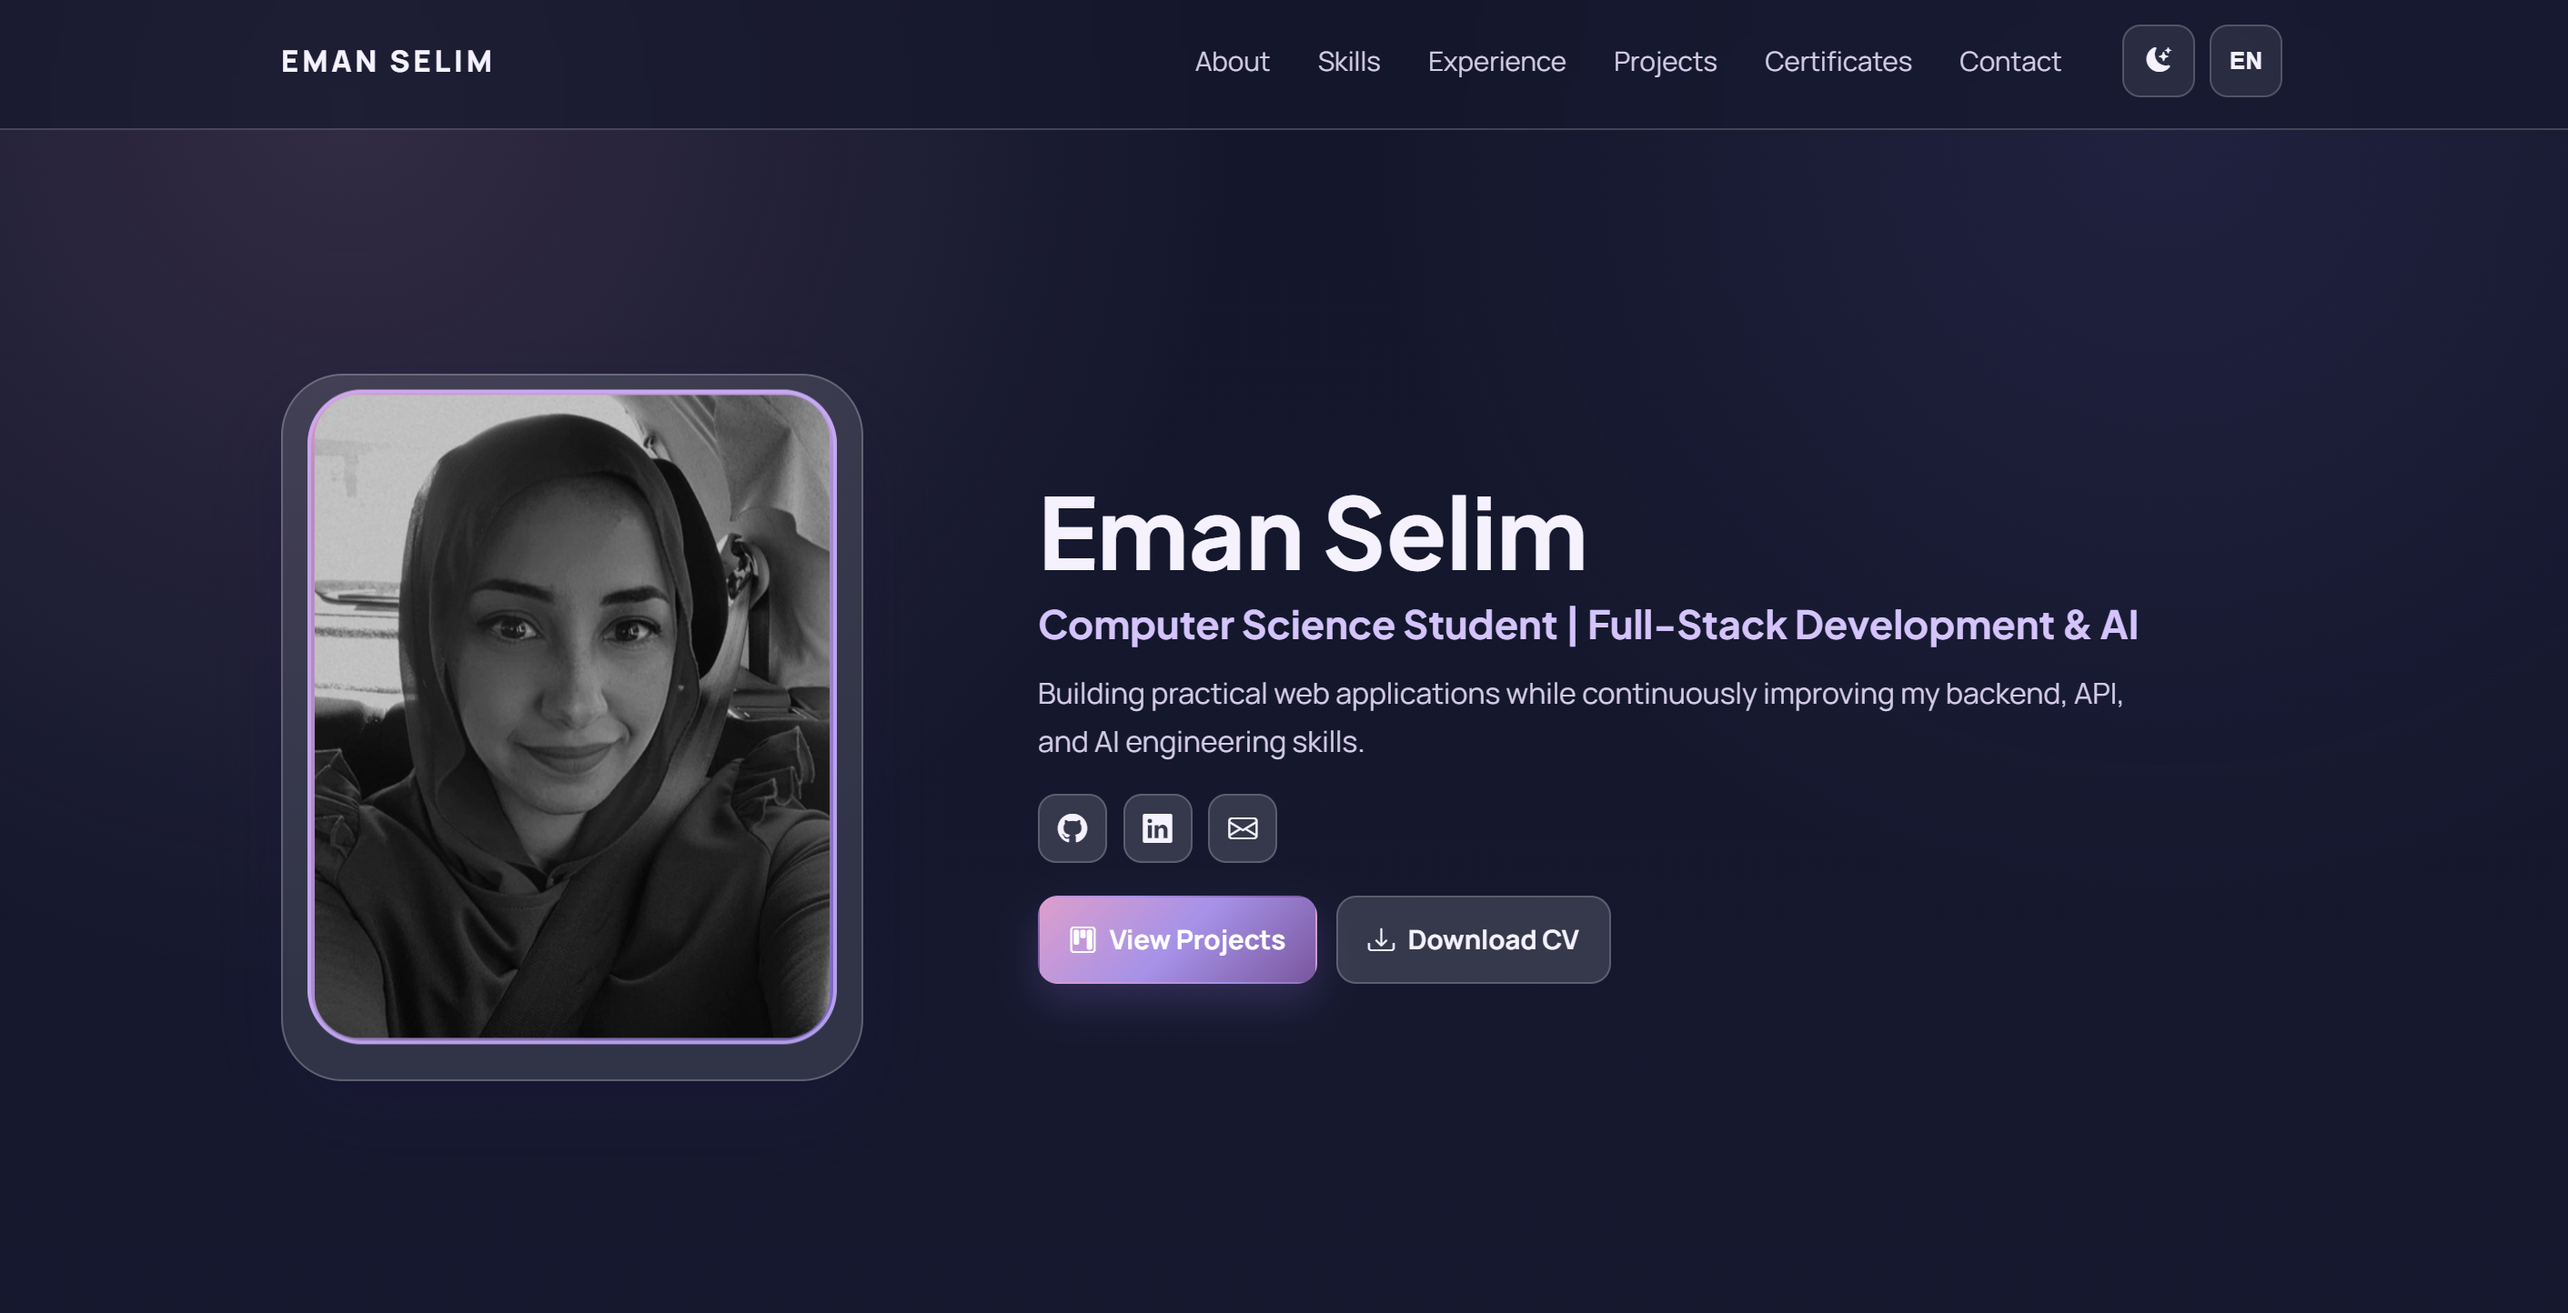
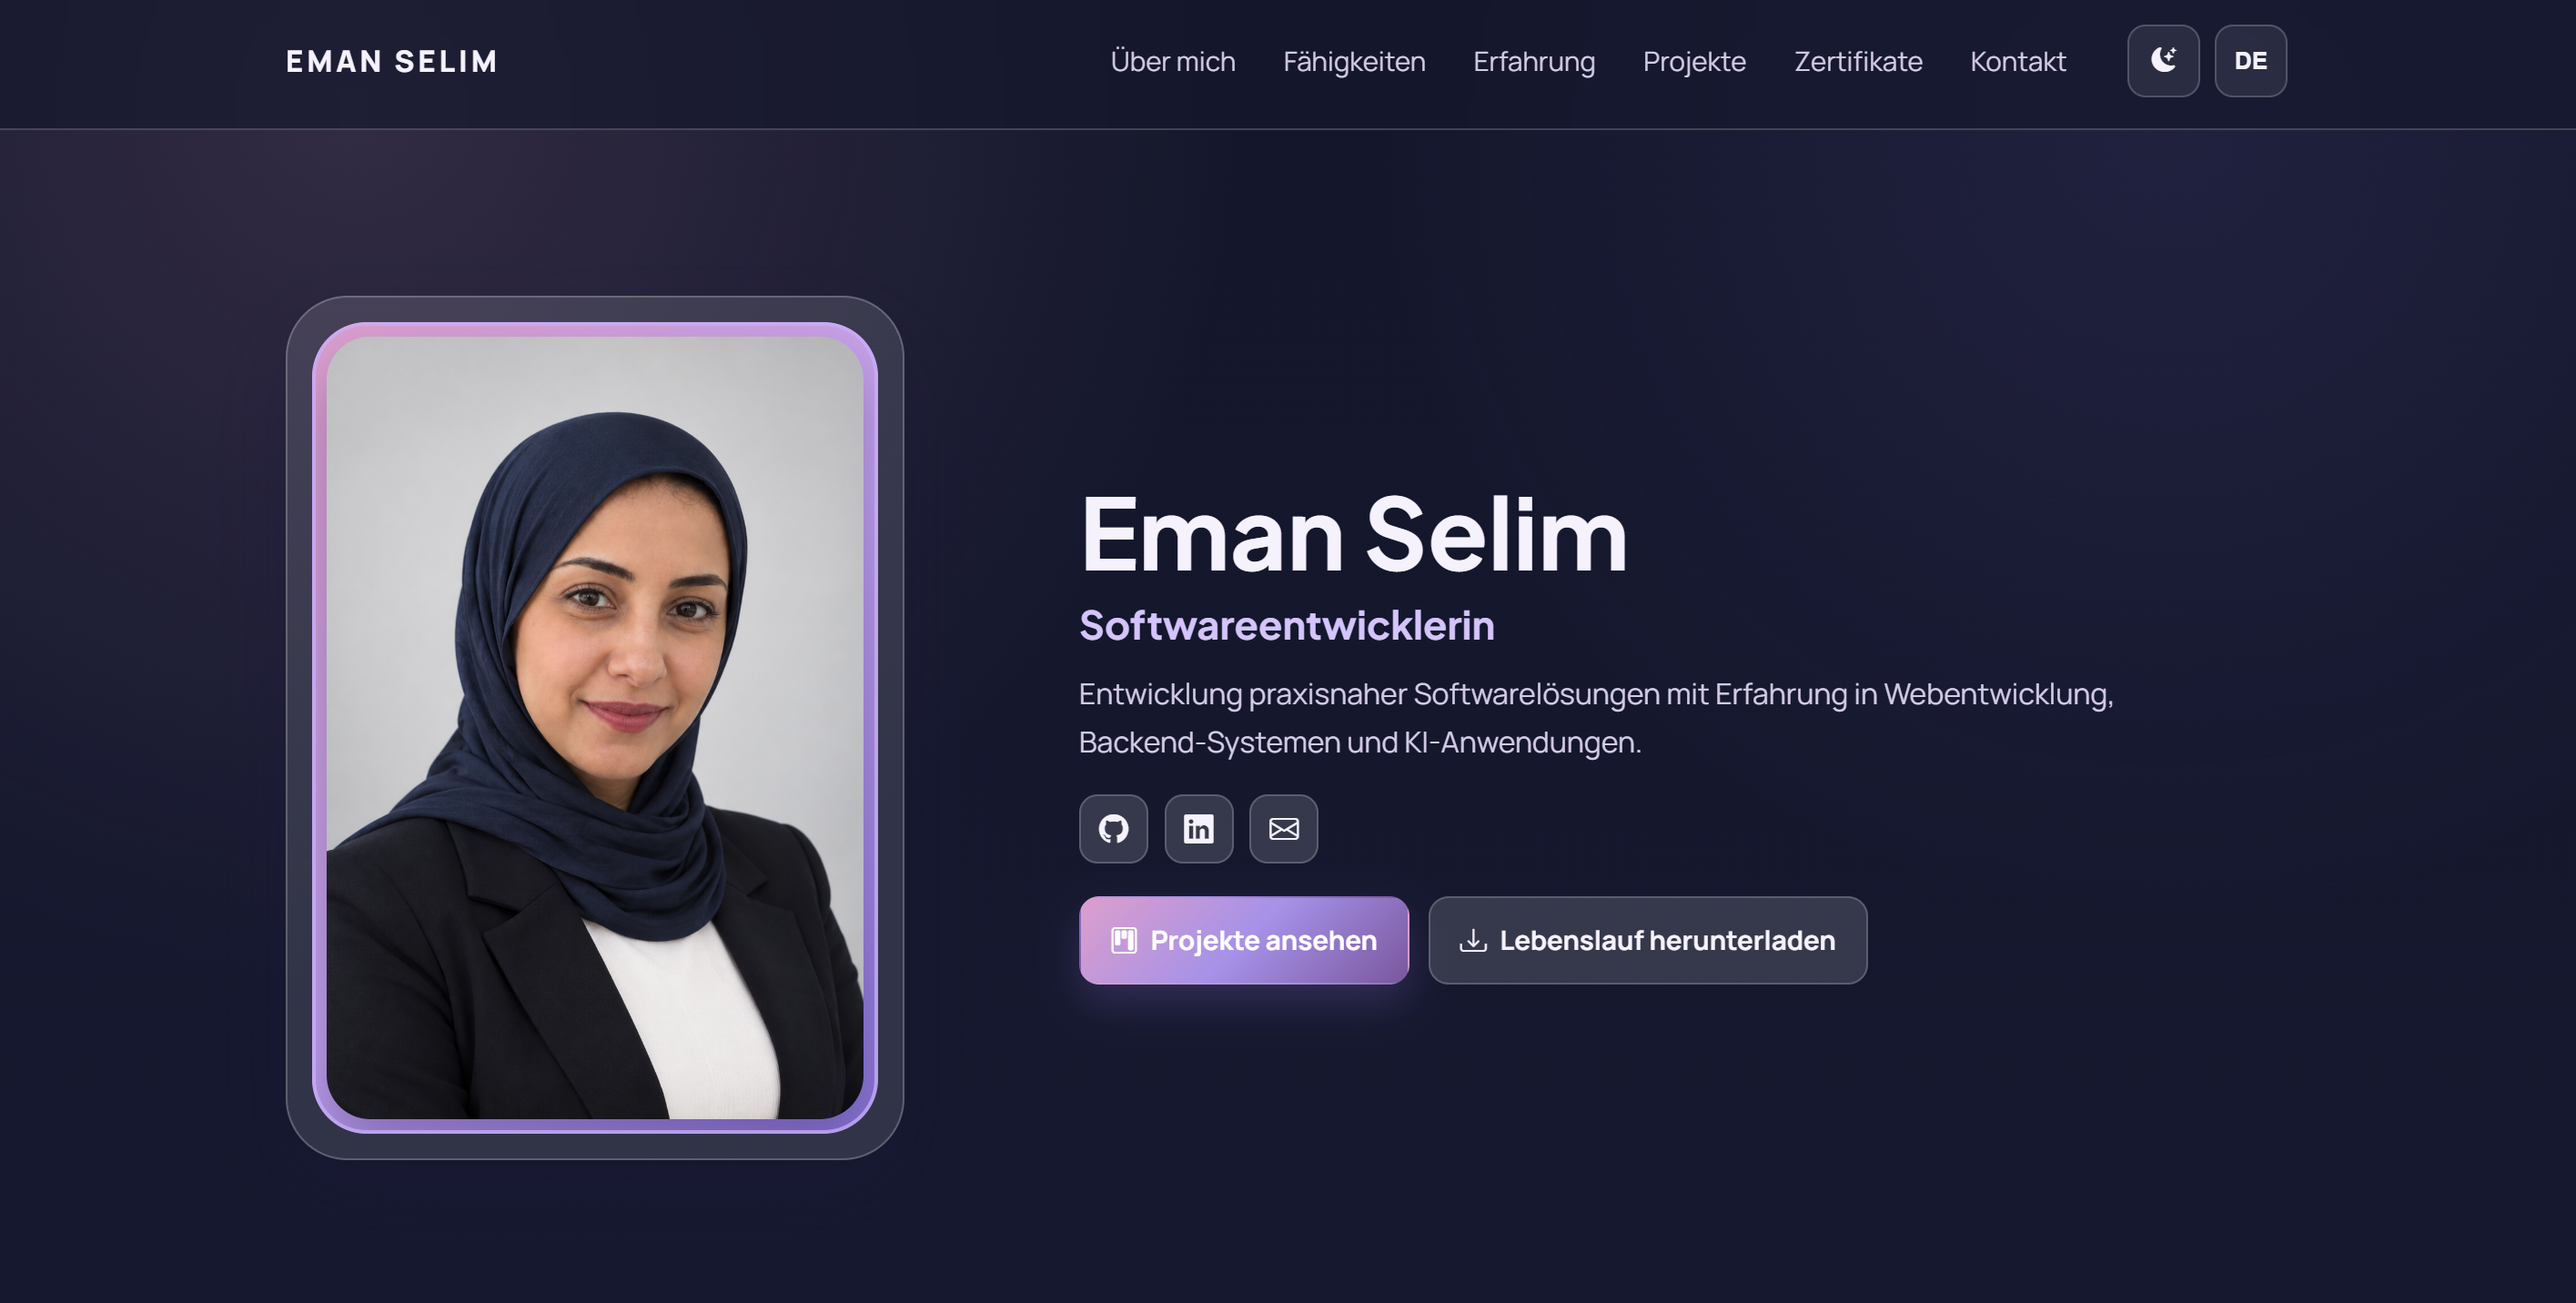
Refine portfolio positioning

diff --git a/data/portfolio-data.js b/data/portfolio-data.js
@@ -5,12 +5,12 @@ const portfolioData = {
     name: "Eman Selim",
     profileImage: "assets/images/eman-profile.jpeg?v=20260918-1",
     title: {
-      en: "Computer Science Student | Python, Backend & AI Applications",
-      de: "Informatikstudentin | Python, Backend & KI-Anwendungen",
+      en: "Software Developer",
+      de: "Softwareentwicklerin",
     },
     summary: {
-      en: "Building practical Python, backend and AI-based applications while expanding my software development experience.",
-      de: "Ich entwickle praxisnahe Python-, Backend- und KI-basierte Anwendungen und erweitere dabei meine Erfahrung in der Softwareentwicklung.",
+      en: "Building practical software solutions with experience across web development, backend systems and AI applications.",
+      de: "Entwicklung praxisnaher Softwarelösungen mit Erfahrung in Webentwicklung, Backend-Systemen und KI-Anwendungen.",
     },
     location: {
       en: "47119 Duisburg, Germany",
@@ -43,9 +43,9 @@ const portfolioData = {
         followMe: "Follow Me",
       },
       aboutSummary:
-        "Computer Science student at Westfälische Hochschule with practical experience in Python, FastAPI, REST APIs and AI-based applications. Through university projects and my internship, I have worked with chatbots, RAG, AI agents and semantic search. I am currently expanding my practical experience in backend development and applied AI.",
+        "I am a software developer with hands-on experience in building web applications, backend systems, REST APIs, and AI-based solutions.\n\nI work with technologies including Python, Java, JavaScript, FastAPI, SQL, and Docker, and I have practical experience with AI applications such as RAG, chatbots, embeddings, and AI agents.\n\nI enjoy solving technical problems, exploring different areas of software development, and continuously improving the quality and functionality of the applications I build.",
       contactNote:
-        "Feel free to reach out for internships, student jobs, collaborations, or project opportunities.",
+        "Feel free to reach out regarding professional opportunities, collaborations, or software projects.",
       allProjects: "View All Projects",
       allCertificates: "View All Certificates",
       form: {
@@ -109,9 +109,9 @@ const portfolioData = {
         followMe: "Folge mir",
       },
       aboutSummary:
-        "Informatikstudentin an der Westfälischen Hochschule mit praktischer Erfahrung in Python, FastAPI, REST-APIs und KI-basierten Anwendungen. Im Rahmen von Hochschulprojekten und meiner Praxisphase habe ich mit Chatbots, RAG, KI-Agenten und semantischer Suche gearbeitet. Aktuell vertiefe ich meine praktischen Kenntnisse in der Backend-Entwicklung und angewandten KI.",
+        "Ich bin Softwareentwicklerin mit praktischer Erfahrung in der Entwicklung von Webanwendungen, Backend-Systemen, REST-APIs und KI-basierten Lösungen.\n\nIch arbeite mit Technologien wie Python, Java, JavaScript, FastAPI, SQL und Docker und habe praktische Erfahrung mit KI-Anwendungen wie RAG, Chatbots, Embeddings und AI Agents.\n\nIch löse gerne technische Probleme, beschäftige mich mit verschiedenen Bereichen der Softwareentwicklung und arbeite kontinuierlich daran, die Qualität und Funktionalität meiner Anwendungen zu verbessern.",
       contactNote:
-        "Kontaktiere mich gerne für Praktika, Werkstudentenstellen, Zusammenarbeit oder Projektmöglichkeiten.",
+        "Kontaktieren Sie mich gerne bezüglich beruflicher Möglichkeiten, Zusammenarbeit oder Softwareprojekten.",
       allProjects: "Alle Projekte ansehen",
       allCertificates: "Alle Zertifikate ansehen",
       form: {
@@ -164,21 +164,15 @@ const portfolioData = {
         iconClass: "bi-code-slash",
         title: { en: "Programming", de: "Programmierung" },
         items: {
-          en: ["Python", "Java", "JavaScript (Basic Knowledge)"],
-          de: ["Python", "Java", "JavaScript (Grundkenntnisse)"],
+          en: ["Python", "Java", "JavaScript"],
+          de: ["Python", "Java", "JavaScript"],
         },
-      },
-      {
-        key: "databases",
-        iconClass: "bi-database",
-        title: { en: "Databases", de: "Datenbanken" },
-        items: ["SQL"],
       },
       {
         key: "frontend-basics",
         iconClass: "bi-window",
-        title: { en: "Frontend Basics", de: "Frontend-Grundlagen" },
-        items: ["HTML5", "CSS3", "Bootstrap"],
+        title: { en: "Frontend / Web", de: "Frontend / Web" },
+        items: ["HTML5", "CSS3", "Bootstrap 5"],
       },
       {
         key: "backend-apis",
@@ -188,6 +182,12 @@ const portfolioData = {
           en: ["FastAPI", "REST APIs"],
           de: ["FastAPI", "REST-APIs"],
         },
+      },
+      {
+        key: "databases",
+        iconClass: "bi-database",
+        title: { en: "Databases", de: "Datenbanken" },
+        items: ["SQL"],
       },
       {
         key: "ai",
@@ -203,6 +203,12 @@ const portfolioData = {
         iconClass: "bi-tools",
         title: { en: "Tools", de: "Tools" },
         items: ["Git", "GitHub", "GitLab", "Docker", "VS Code"],
+      },
+      {
+        key: "methods",
+        iconClass: "bi-people",
+        title: { en: "Methods", de: "Methoden" },
+        items: ["Agile", "Scrum"],
       },
     ],
   },
@@ -236,8 +242,8 @@ const portfolioData = {
     {
       period: { en: "05/2026 - Present", de: "05/2026 - heute" },
       role: {
-        en: "Praxisphase / Internship - AI Chatbot",
-        de: "Praxisphase - KI-Chatbot",
+        en: "AI Chatbot Development - Internship",
+        de: "Praxisphase - KI-Chatbot-Entwicklung",
       },
       organization: {
         en: "Institute for Internet Security (if(is)), Gelsenkirchen",
@@ -246,7 +252,7 @@ const portfolioData = {
       bullets: {
         en: [
           "Contributing to the development of an AI chatbot.",
-          "Implementing and improving chatbot functionality using Python.",
+          "Implementing and refining chatbot functionality using Python.",
           "Working with RAG-based approaches and practical chatbot workflows.",
           "Supporting implementation, testing and continuous improvement.",
         ],
@@ -261,8 +267,8 @@ const portfolioData = {
     {
       period: "2021 - 2026",
       role: {
-        en: "Student Jobs & Operational Experience",
-        de: "Studentische Nebentätigkeiten",
+        en: "Additional Professional Experience",
+        de: "Weitere Berufserfahrung",
       },
       organization: {
         en: "Various roles in retail, logistics, events and customer service.",
@@ -299,8 +305,8 @@ const portfolioData = {
       },
       image: "https://s.wordpress.com/mshots/v1/https%3A%2F%2Feman-m-selim.github.io%2Fbeyond-the-museum-landing-page%2F?w=1200",
       summary: {
-        en: "Cinematic Egypt tourism landing page built with HTML, CSS, Bootstrap 5, and minimal JavaScript. Includes an interactive Cairo section and EN/AR language switch with RTL support.",
-        de: "Cinematische Landingpage für Ägypten-Tourismus mit HTML, CSS, Bootstrap 5 und minimalem JavaScript. Enthält einen interaktiven Kairo-Bereich sowie EN/AR-Sprachumschaltung mit RTL-Unterstützung.",
+        en: "Cinematic Egypt tourism landing page developed with HTML, CSS, Bootstrap 5, and JavaScript. Eman built the page structure, responsive styling, interactive Cairo section, and EN/AR language switch with RTL support.",
+        de: "Cinematische Landingpage für Ägypten-Tourismus, entwickelt mit HTML, CSS, Bootstrap 5 und JavaScript. Eman entwickelte Seitenstruktur, responsives Styling, den interaktiven Kairo-Bereich und die EN/AR-Sprachumschaltung mit RTL-Unterstützung.",
       },
       technologies: ["HTML5", "CSS3", "Bootstrap 5", "JavaScript"],
       status: {
@@ -318,8 +324,8 @@ const portfolioData = {
       },
       image: "assets/images/vectorizr-search.png",
       summary: {
-        en: "Semantic search prototype using embeddings and FAISS, developed as a university team project.",
-        de: "Semantischer Suchprototyp mit Embeddings und FAISS, entwickelt als Hochschul-Teamprojekt.",
+        en: "Semantic search prototype using embeddings and FAISS, developed as a university team project. Eman contributed to the application workflow and backend-related implementation with Python, FastAPI and Docker.",
+        de: "Semantischer Suchprototyp mit Embeddings und FAISS, entwickelt als Hochschul-Teamprojekt. Eman arbeitete am Anwendungsworkflow und an backendbezogenen Implementierungen mit Python, FastAPI und Docker mit.",
       },
       technologies: ["Python", "FastAPI", "Docker", "FAISS", "Embeddings", "Tauri"],
       status: {
@@ -327,7 +333,7 @@ const portfolioData = {
         de: "Hochschulprojekt",
       },
       liveDemo: "",
-      sourceCode: "https://github.com/Eman-M-Selim",
+      sourceCode: "",
     },
     {
       title: "UI/UX Design Project",
@@ -337,8 +343,8 @@ const portfolioData = {
       },
       image: "assets/images/agile-tablet.png",
       summary: {
-        en: "Interactive wireframes and UI prototypes created in Figma for a university design project.",
-        de: "Interaktive Wireframes und UI-Prototypen, erstellt in Figma für ein Hochschul-Designprojekt.",
+        en: "Interactive wireframes and UI prototypes created in Figma for a university design project. Eman worked on user flows, screen layouts, and clickable prototype interactions.",
+        de: "Interaktive Wireframes und UI-Prototypen, erstellt in Figma für ein Hochschul-Designprojekt. Eman arbeitete an User Flows, Screen-Layouts und klickbaren Prototyp-Interaktionen.",
       },
       technologies: ["Figma", "UI/UX Design", "Wireframing"],
       status: {

diff --git a/index.html b/index.html
@@ -3,8 +3,8 @@
   <head>
     <meta charset="UTF-8" />
     <meta name="viewport" content="width=device-width, initial-scale=1.0" />
-    <title>Eman Selim | Python, Backend & AI Applications</title>
-    <meta name="description" content="Portfolio of Eman Selim, Computer Science student focused on Python, backend development and AI applications." />
+    <title>Eman Selim | Software Developer</title>
+    <meta name="description" content="Portfolio of Eman Selim, a software developer with experience in web development, backend systems and AI applications." />
     <link rel="preconnect" href="https://fonts.googleapis.com" />
     <link rel="preconnect" href="https://fonts.gstatic.com" crossorigin />
     <link

diff --git a/cv.html b/cv.html
@@ -3,8 +3,8 @@
   <head>
     <meta charset="UTF-8" />
     <meta name="viewport" content="width=device-width, initial-scale=1.0" />
-    <title>CV | Eman Selim</title>
-    <meta name="description" content="Printable professional CV generated from shared portfolio data." />
+    <title>CV | Eman Selim Software Developer</title>
+    <meta name="description" content="Printable CV for Eman Selim, software developer with experience in web development, backend systems and AI applications." />
     <link rel="preconnect" href="https://fonts.googleapis.com" />
     <link rel="preconnect" href="https://fonts.gstatic.com" crossorigin />
     <link

diff --git a/projects.html b/projects.html
@@ -3,8 +3,8 @@
   <head>
     <meta charset="UTF-8" />
     <meta name="viewport" content="width=device-width, initial-scale=1.0" />
-    <title>Projects | Eman Selim</title>
-    <meta name="description" content="Projects portfolio page for Eman Selim." />
+    <title>Projects | Eman Selim Software Developer</title>
+    <meta name="description" content="Software development projects by Eman Selim across web development, backend systems, AI applications and UI/UX design." />
     <link rel="preconnect" href="https://fonts.googleapis.com" />
     <link rel="preconnect" href="https://fonts.gstatic.com" crossorigin />
     <link

diff --git a/certificates.html b/certificates.html
@@ -3,8 +3,8 @@
   <head>
     <meta charset="UTF-8" />
     <meta name="viewport" content="width=device-width, initial-scale=1.0" />
-    <title>Certificates | Eman Selim</title>
-    <meta name="description" content="Certificates page for Eman Selim." />
+    <title>Certificates | Eman Selim Software Developer</title>
+    <meta name="description" content="Certificates and professional learning records for Eman Selim, software developer." />
     <link rel="preconnect" href="https://fonts.googleapis.com" />
     <link rel="preconnect" href="https://fonts.gstatic.com" crossorigin />
     <link

diff --git a/css/style.css b/css/style.css
@@ -519,6 +519,10 @@ body.dark-theme .button-secondary:hover {
   margin-top: 0;
 }
 
+#about-summary {
+  white-space: pre-line;
+}
+
 .education-card .timeline-item {
   border: 1px solid var(--border);
   border-radius: var(--radius-md);

diff --git a/css/cv.css b/css/cv.css
@@ -163,6 +163,7 @@ body.dark-theme .cv-document {
 .cv-text {
   font-size: 0.94rem;
   line-height: 1.45;
+  white-space: pre-line;
 }
 
 .cv-skill-line {

diff --git a/README.md b/README.md
@@ -82,7 +82,7 @@ Short professional summary and education timeline.
 Programming, backend APIs, applied AI, tools, and language levels.
 
 ### Experience
-Professional and student work experience displayed as a timeline.
+Professional experience displayed as a timeline.
 
 ### Projects
 Highlighted portfolio projects with technologies and links.
